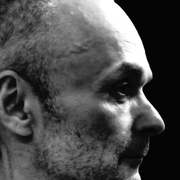
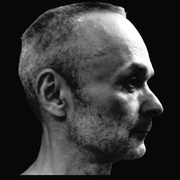
baa: иконка вкладки из того же круглого портрета, что на странице
Весь кадр в круге (лицо целиком), прозрачные углы, тонкая светлая обводка.
apple-touch-icon — тот же кадр квадратом (iOS скругляет сам). Адреса
иконок с ?v=3.

Claude-Session: https://claude.ai/code/session_01BDtVaUdwnBKSxykXmhjaAn

diff --git a/baa/texts/interface-design-in-the-spec/index.html b/baa/texts/interface-design-in-the-spec/index.html
@@ -4,11 +4,11 @@
 <meta charset="utf-8">
 <meta name="viewport" content="width=device-width, initial-scale=1, viewport-fit=cover">
 <title>Interface design as part of writing the specification — Alexander Belyshkin</title>
-<link rel="icon" href="../../favicon.ico?v=2" sizes="48x48">
-<link rel="icon" type="image/png" sizes="32x32" href="../../assets/favicon-32.png?v=2">
-<link rel="icon" type="image/png" sizes="64x64" href="../../assets/favicon-64.png?v=2">
-<link rel="icon" type="image/png" sizes="192x192" href="../../assets/icon-192.png?v=2">
-<link rel="apple-touch-icon" href="../../assets/apple-touch-icon.png">
+<link rel="icon" href="../../favicon.ico?v=3" sizes="48x48">
+<link rel="icon" type="image/png" sizes="32x32" href="../../assets/favicon-32.png?v=3">
+<link rel="icon" type="image/png" sizes="64x64" href="../../assets/favicon-64.png?v=3">
+<link rel="icon" type="image/png" sizes="192x192" href="../../assets/icon-192.png?v=3">
+<link rel="apple-touch-icon" href="../../assets/apple-touch-icon.png?v=3">
 <meta name="description" content="Designing the interface belongs to specifying a system, not to building it. A 2003 article by Vlad Golovach and Alexander Belyshkin.">
 <meta name="color-scheme" content="light">
 <link rel="stylesheet" href="https://fonts.googleapis.com/css2?family=Hanken+Grotesk:wght@400;500;700&family=Source+Serif+4:ital,opsz,wght@0,8..60,400;0,8..60,600;0,8..60,700;1,8..60,400&display=swap">

diff --git a/baa/texts/testing-interfaces/index.html b/baa/texts/testing-interfaces/index.html
@@ -4,11 +4,11 @@
 <meta charset="utf-8">
 <meta name="viewport" content="width=device-width, initial-scale=1, viewport-fit=cover">
 <title>Testing interfaces — Alexander Belyshkin</title>
-<link rel="icon" href="../../favicon.ico?v=2" sizes="48x48">
-<link rel="icon" type="image/png" sizes="32x32" href="../../assets/favicon-32.png?v=2">
-<link rel="icon" type="image/png" sizes="64x64" href="../../assets/favicon-64.png?v=2">
-<link rel="icon" type="image/png" sizes="192x192" href="../../assets/icon-192.png?v=2">
-<link rel="apple-touch-icon" href="../../assets/apple-touch-icon.png">
+<link rel="icon" href="../../favicon.ico?v=3" sizes="48x48">
+<link rel="icon" type="image/png" sizes="32x32" href="../../assets/favicon-32.png?v=3">
+<link rel="icon" type="image/png" sizes="64x64" href="../../assets/favicon-64.png?v=3">
+<link rel="icon" type="image/png" sizes="192x192" href="../../assets/icon-192.png?v=3">
+<link rel="apple-touch-icon" href="../../assets/apple-touch-icon.png?v=3">
 <meta name="description" content="Developers test their code for bugs but rarely test the interface. A 2002 article by Alexander Belyshkin and Alexey Lukutin.">
 <meta name="color-scheme" content="light">
 <link rel="stylesheet" href="https://fonts.googleapis.com/css2?family=Hanken+Grotesk:wght@400;500;700&family=Source+Serif+4:ital,opsz,wght@0,8..60,400;0,8..60,600;0,8..60,700;1,8..60,400&display=swap">

diff --git a/baa/texts/user-interface-checklist/index.html b/baa/texts/user-interface-checklist/index.html
@@ -4,11 +4,11 @@
 <meta charset="utf-8">
 <meta name="viewport" content="width=device-width, initial-scale=1, viewport-fit=cover">
 <title>A user interface checklist — Alexander Belyshkin</title>
-<link rel="icon" href="../../favicon.ico?v=2" sizes="48x48">
-<link rel="icon" type="image/png" sizes="32x32" href="../../assets/favicon-32.png?v=2">
-<link rel="icon" type="image/png" sizes="64x64" href="../../assets/favicon-64.png?v=2">
-<link rel="icon" type="image/png" sizes="192x192" href="../../assets/icon-192.png?v=2">
-<link rel="apple-touch-icon" href="../../assets/apple-touch-icon.png">
+<link rel="icon" href="../../favicon.ico?v=3" sizes="48x48">
+<link rel="icon" type="image/png" sizes="32x32" href="../../assets/favicon-32.png?v=3">
+<link rel="icon" type="image/png" sizes="64x64" href="../../assets/favicon-64.png?v=3">
+<link rel="icon" type="image/png" sizes="192x192" href="../../assets/icon-192.png?v=3">
+<link rel="apple-touch-icon" href="../../assets/apple-touch-icon.png?v=3">
 <meta name="description" content="A checklist anyone can run against an interface, with no subjective items. By Vlad Golovach and Alexander Belyshkin.">
 <meta name="color-scheme" content="light">
 <link rel="stylesheet" href="https://fonts.googleapis.com/css2?family=Hanken+Grotesk:wght@400;500;700&family=Source+Serif+4:ital,opsz,wght@0,8..60,400;0,8..60,600;0,8..60,700;1,8..60,400&display=swap">

diff --git a/baa/revizor/index.html b/baa/revizor/index.html
@@ -4,11 +4,11 @@
 <meta charset="utf-8">
 <meta name="viewport" content="width=device-width, initial-scale=1, viewport-fit=cover">
 <title>The Government Inspector — audiobook</title>
-<link rel="icon" href="../favicon.ico?v=2" sizes="48x48">
-<link rel="icon" type="image/png" sizes="32x32" href="../assets/favicon-32.png?v=2">
-<link rel="icon" type="image/png" sizes="64x64" href="../assets/favicon-64.png?v=2">
-<link rel="icon" type="image/png" sizes="192x192" href="../assets/icon-192.png?v=2">
-<link rel="apple-touch-icon" href="../assets/apple-touch-icon.png">
+<link rel="icon" href="../favicon.ico?v=3" sizes="48x48">
+<link rel="icon" type="image/png" sizes="32x32" href="../assets/favicon-32.png?v=3">
+<link rel="icon" type="image/png" sizes="64x64" href="../assets/favicon-64.png?v=3">
+<link rel="icon" type="image/png" sizes="192x192" href="../assets/icon-192.png?v=3">
+<link rel="apple-touch-icon" href="../assets/apple-touch-icon.png?v=3">
 <meta name="description" content="Nikolai Gogol's comedy The Government Inspector (Revizor) as an audiobook in Russian, read by Alexander Belyshkin.">
 <meta name="color-scheme" content="light">
 <link rel="stylesheet" href="https://fonts.googleapis.com/css2?family=Hanken+Grotesk:wght@400;500;700&family=Source+Serif+4:ital,opsz,wght@0,8..60,400;0,8..60,600;0,8..60,700;1,8..60,400&display=swap">

diff --git a/baa/index.html b/baa/index.html
@@ -5,11 +5,11 @@
 <meta name="viewport" content="width=device-width, initial-scale=1, viewport-fit=cover">
 <!--head:start-->
 <title>Alexander Belyshkin</title>
-<link rel="icon" href="favicon.ico?v=2" sizes="48x48">
-<link rel="icon" type="image/png" sizes="32x32" href="assets/favicon-32.png?v=2">
-<link rel="icon" type="image/png" sizes="64x64" href="assets/favicon-64.png?v=2">
-<link rel="icon" type="image/png" sizes="192x192" href="assets/icon-192.png?v=2">
-<link rel="apple-touch-icon" href="assets/apple-touch-icon.png">
+<link rel="icon" href="favicon.ico?v=3" sizes="48x48">
+<link rel="icon" type="image/png" sizes="32x32" href="assets/favicon-32.png?v=3">
+<link rel="icon" type="image/png" sizes="64x64" href="assets/favicon-64.png?v=3">
+<link rel="icon" type="image/png" sizes="192x192" href="assets/icon-192.png?v=3">
+<link rel="apple-touch-icon" href="assets/apple-touch-icon.png?v=3">
 <meta name="claude:viewport-fit-sides" content="cover">
 <meta name="description" content="People don’t see what they actually do without a useful feedback loop. Alexander Belyshkin, a feedback methodologist, has been learning to build such loops since 1997 and helping others build them: in interruption research, in usability research and user testing at Usethics, and now in feedback tools.">
 <meta name="color-scheme" content="light">
